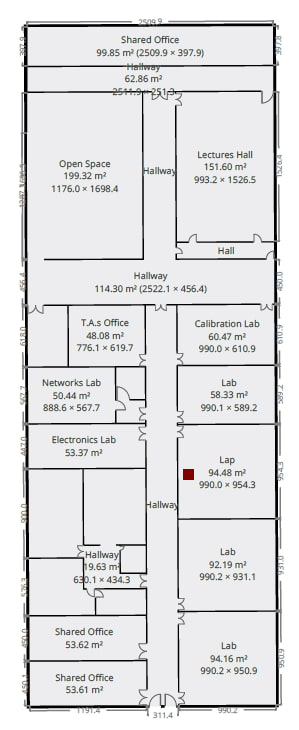
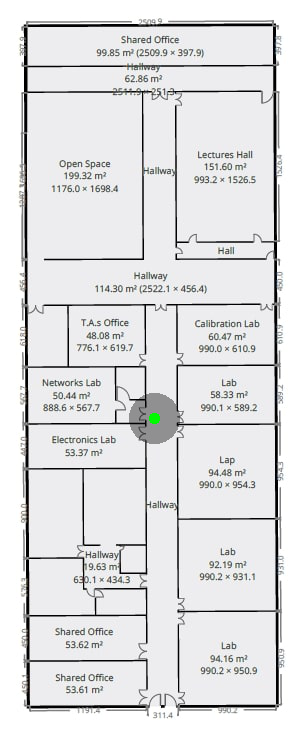
edited task2 tracker

Changed region(s): [[0.4214, 0.5123, 0.602, 0.6329], [0.602, 0.6329, 0.6622, 0.663]]

diff --git a/task2/task2Test.py b/task2/task2Test.py
@@ -1,43 +1,62 @@
 from PIL import Image, ImageDraw
 
 
-def mapCoordinates(left,down):
+def mapCoordinates(left,down,img):
     """
         Maps the coordinates from cm to Pixels fitted to the Floor image, 
         coordinates are measured from top left corner
-
     """
     # image width  = 299 pixels 
     # image height  = 730 pixels
 
+    img = Image.open(img)
+
+    imgWidth = img.size[0] 
+    imgHeight = img.size[1] 
     # floor height // till H-hallway = (4465.7) cm 
-    
+   
     # floor width = (2509.9) cm 
     # floor height = (4465.7) + 2347.6 = (6814.8) cm 
+    FloorWidth = 2509.9    # CM
+    FloorHeight = 6814.8   # CM
 
     # White padding : 250 cm left , 250 cm down
-
+    whitePadding = 250     # CM
     # (without padding)
     # for width = Each cm eq. to ~ 8.5 pixels  
     # for height = Each cm eq. to ~ 9.5 pixels  
-
+    yFactor = (whitePadding + FloorHeight) / imgHeight
+    xFactor = (whitePadding + FloorWidth ) / imgWidth
     #(with pading from left and top)
     # for width  = 9.5 pixels per cm   
     # for height =  10 pixels per cm
 
-    x = round(left / 9.5)
-    y = round(down / 10) 
+    x = int(left / xFactor)
+    y = int(down / yFactor) 
     return (x,y)
 
-def drawSqaure(img,coordinates,saveTo):
+# def drawSqaure(img,coordinates,saveTo):
+#     with Image.open(img) as im:
+#         draw = ImageDraw.Draw(im)
+#         #AT 1176 cm left / 3423.7 should be at net lab
+#         #(138,360)
+#         # draw.point((133,266),fill=128)
+#         p1 = coordinates
+#         p2 = (coordinates[0] + 10 , coordinates[1] + 10)
+#         draw.rectangle([p1,p2],outline=128,fill=128,width=10)
+#         im.save(saveTo, "PNG") 
+def drawCircle(img,radius,coordinates,saveTo):
     with Image.open(img) as im:
-        draw = ImageDraw.Draw(im)
-        #AT 1176 cm left / 3423.7 should be at net lab
-        #(138,360)
-        # draw.point((133,266),fill=128)
-        p1 = coordinates
-        p2 = (coordinates[0] + 10 , coordinates[1] + 10)
-        draw.rectangle([p1,p2],outline=128,fill=128,width=10)
+        draw = ImageDraw.Draw(im,'RGBA')
+        
+        p1 = (coordinates[0] - radius , coordinates[1] - radius)
+        p2 = (coordinates[0] + radius , coordinates[1] + radius)
+        p3 = (coordinates[0] - (radius * 5) , coordinates[1] - (radius * 5))
+        p4 = (coordinates[0] + (radius * 5) , coordinates[1] + (radius * 5))
+        # outter
+        draw.ellipse([p3,p4],fill=(0,0,0,100))
+        # inner
+        draw.ellipse([p1,p2], fill=(0,250,0,255))
         im.save(saveTo, "PNG")  
 
 
@@ -45,6 +64,7 @@ def drawSqaure(img,coordinates,saveTo):
 img = "departmentFloorMap.jpg"
 saved = "modified.png"
 
-# down Hallway starts at (1426,3054)
-coords = mapCoordinates(1426+311.4,1634.4+3054)
-drawSqaure(img,coords,saved)
+# Down Hallway starts at (1426,3054)
+
+coords = mapCoordinates(1426,4054,img)
+drawCircle(img,5,coords,saved)
